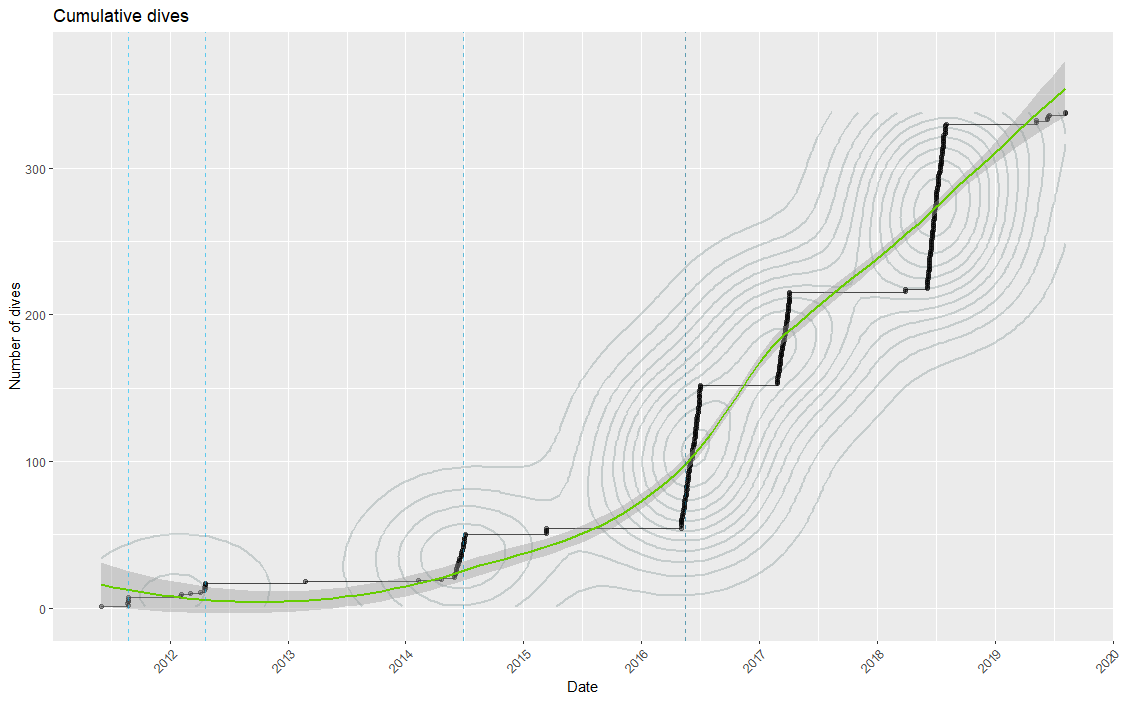
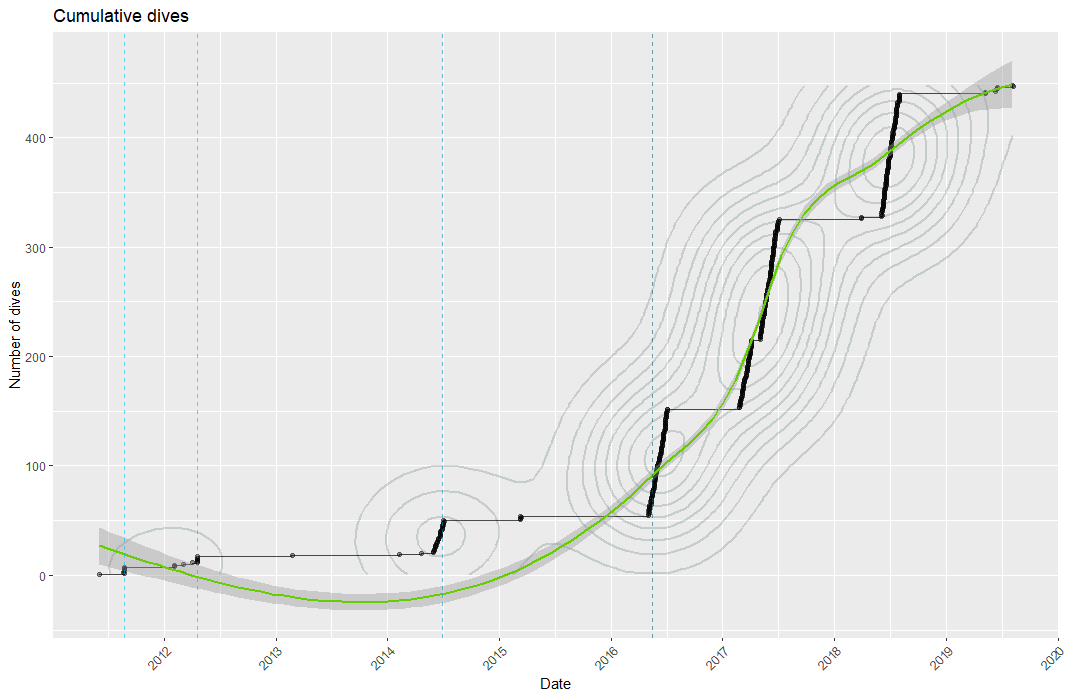
updated README & cum_dives plot

diff --git a/README.md b/README.md
@@ -1,6 +1,7 @@
 # SCUBA logbook
 
-The aim of this repository is the creation of maps and graphs extracted from a dive logbook.
+The aim of this repository is the creation of maps and graphs to visualize a diving logbook.
+Some plots will seem incomplete because of the lack of high quality data in the dataset, for example, maximumDepthInMeters, locationID and bottomTime were not recorded for all the dives.
 
 ## Dives distribution map
 
@@ -28,7 +29,8 @@ Access the interactive map here:
 
 
 ## Cumulative number of dives
-I was pretty bored and couldn't get to do a nice simple cumulative with my crappy data so there you got and hard-to-understand fancy mega-plot
+I was pretty bored and couldn't get to do a nice simple cumulative with my crappy data so there you got and hard-to-understand fancy mega-plot.
+<i> The blue vertical dashed lines mark the date when I completed my OWD, AOWD, Rescue and Divemaster courses </i>
 
 ![cum_dives](images/cum_dives.png)  
 
@@ -47,3 +49,11 @@ Use [semantic versioning](https://semver.org/), i.e.
 * 1.2.x bigger changes
 
 * 2.x.x huge changes
+
+***  
+***
+
+### Contact
+
+* [Twitter](https://twitter.com/maikspaik)
+* [Instagram](https://www.instagram.com/ruben.pperez/?hl=en)
